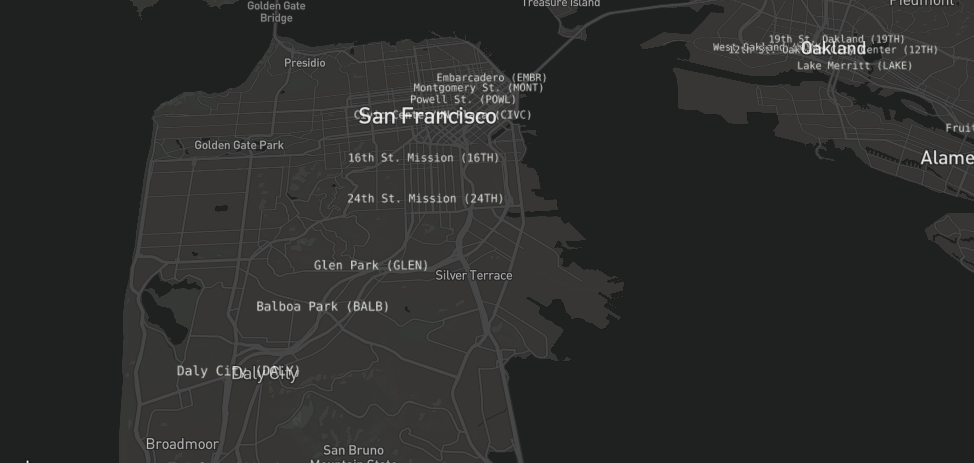
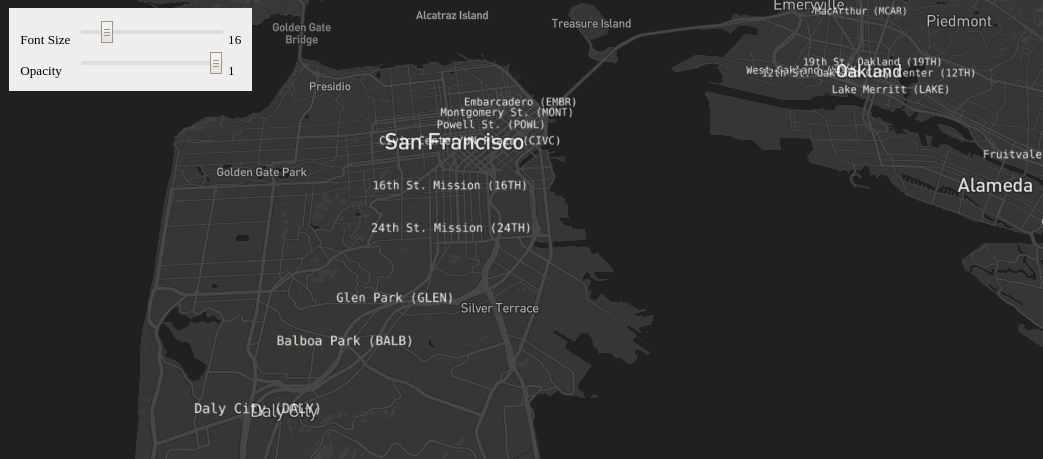
Add Control Panel to TextLayer Demo

diff --git a/examples/gallery/src/text-layer.html b/examples/gallery/src/text-layer.html
@@ -28,18 +28,44 @@
         z-index: 9;
         pointer-events: none;
       }
+      #control-panel {
+        position: absolute;
+        background: #EFEFEF;
+        top: 0;
+        left: 0;
+        margin: 12px;
+        padding: 10px;
+        font-size: 12px;
+        line-height: 1.5;
+        z-index: 1;
+      }
+      label {
+        display: inline-block;
+        width: 50px;
+      }
     </style>
   </head>
 
   <body>
       <div id="tooltip"></div>
+      <div id="control-panel">
+        <div>
+          <label>Font Size</label>
+          <input id="getSize" type="range" min="0" max="100" step="1" value="16"></input>
+          <span id="getSize-value"></span>
+        </div>
+        <div>
+          <label>Opacity</label>
+          <input id="opacity" type="range" min="0" max="1" step="0.1" value="1"></input>
+          <span id="opacity-value"></span>
+        </div>
   </body>
 
   <script type="text/javascript">
 
     const {DeckGL,TextLayer} = deck;
 
-    new DeckGL({
+    const deckgl = new DeckGL({
         mapboxApiAccessToken: '<mapbox-access-token>',
         mapStyle: 'mapbox://styles/mapbox/dark-v9',
         longitude: -122.4,
@@ -48,7 +74,23 @@
         maxZoom: 15,
         pitch: 30,
         bearing: 0,
-        layers: [ new TextLayer({
+    })
+
+    const OPTIONS = ['getSize', 'opacity'];
+
+    renderLayer();
+    OPTIONS.forEach(key => {
+      document.getElementById(key).oninput = renderLayer;
+    });
+
+    function renderLayer () {
+      const options = {};
+      OPTIONS.forEach(key => {
+        const value = document.getElementById(key).value;
+        document.getElementById(key + '-value').innerHTML = value;
+        options[key] = Number(value);
+      });
+      const textLayer = new TextLayer({
             id: 'text-layer',
             data: 'https://raw.githubusercontent.com/uber-common/deck.gl-data/master/website/bart-stations.json',
             pickable: true,
@@ -60,9 +102,13 @@
             getTextAnchor: 'middle',
             getAlignmentBaseline: 'center',
             onHover: updateTooltip,
-        }),
-    ]
-    });
+            ...options,
+        });
+
+        deckgl.setProps({
+        layers: [textLayer]
+      });
+    }
 
     function updateTooltip({x, y, object}) {
       const tooltip = document.getElementById('tooltip');
